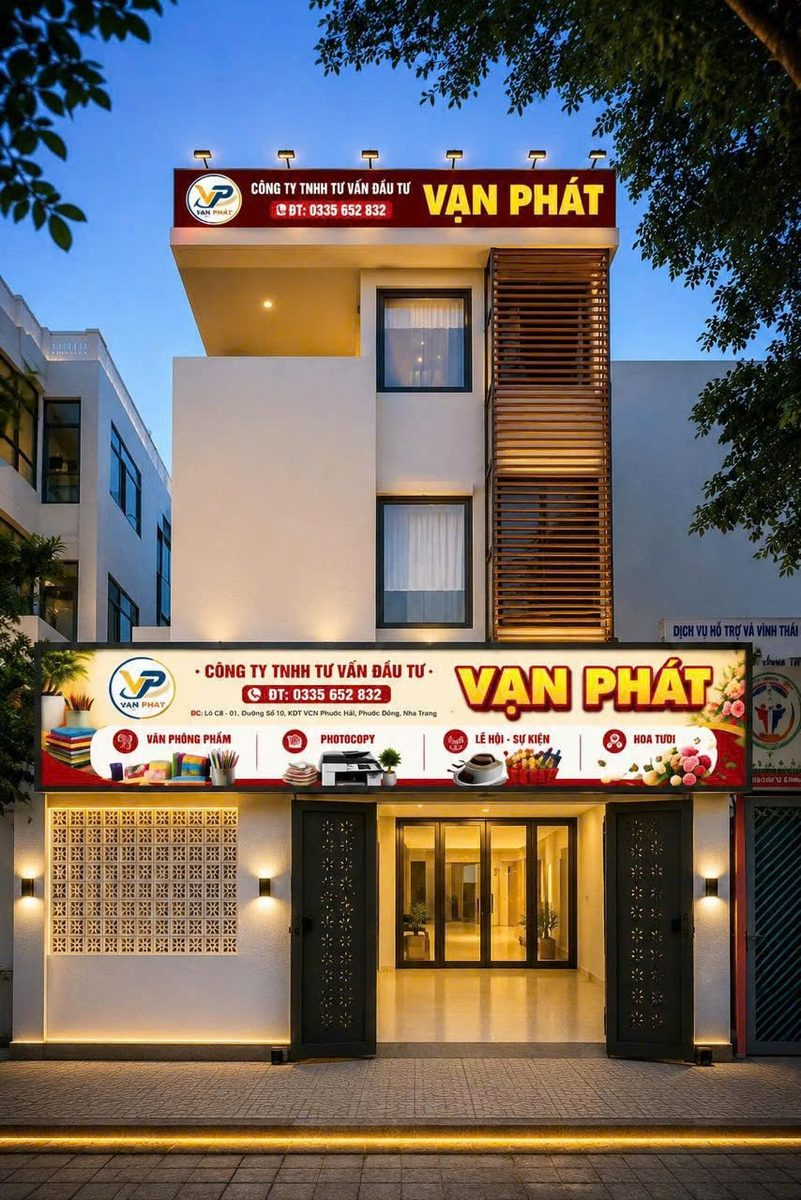
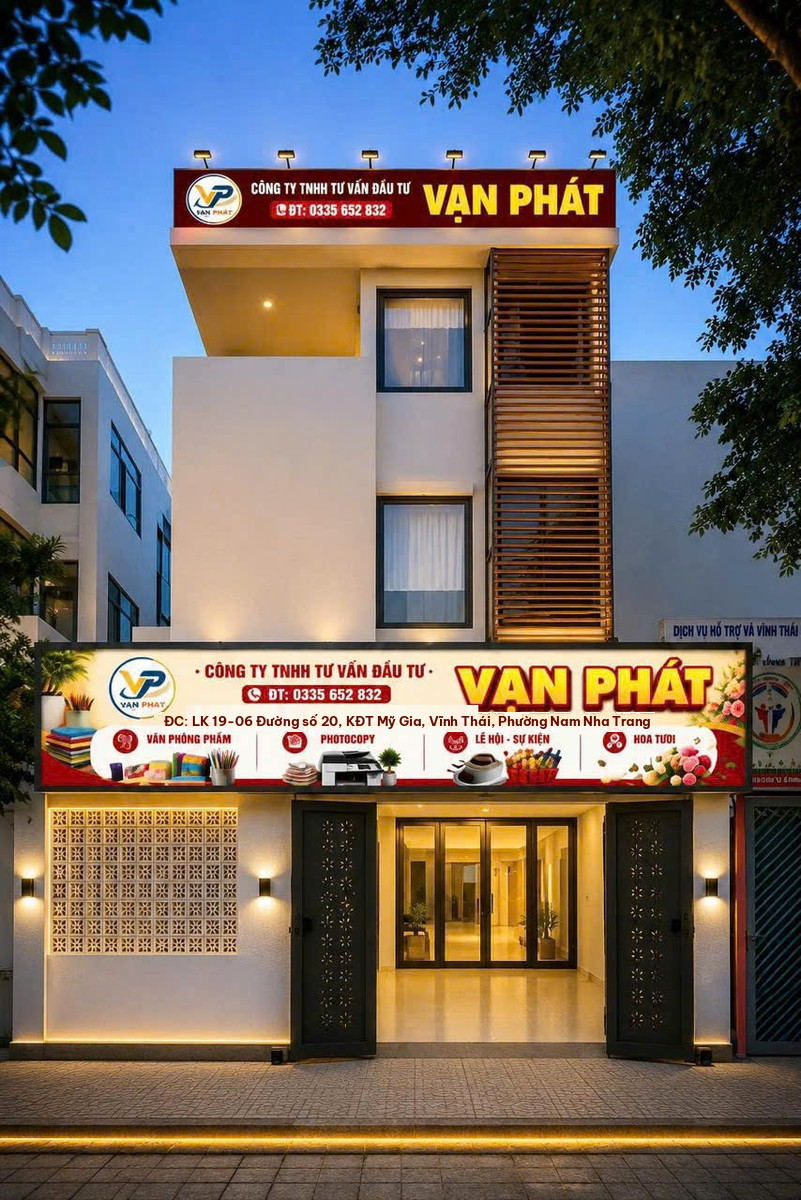
Sửa dòng địa chỉ trên biển mặt tiền sang KĐT Mỹ Gia.
Che dòng Phước Hải trên biển tầng trệt và vẽ lại địa chỉ Mỹ Gia bằng Be Vietnam Pro, giữ tên file ảnh. Thêm ?v=2026101517 cho ảnh hiển thị và sitemap; schema vẫn trỏ URL trần.

Changed region(s): [[0.1873, 0.5858, 0.8115, 0.6167], [0.5618, 0.1542, 0.593, 0.185]]

diff --git a/lien-he.html b/lien-he.html
@@ -14,14 +14,14 @@
   <meta property="og:title" content="Liên hệ văn phòng phẩm Mỹ Gia | Vạn Phát" />
   <meta property="og:description" content="LK 19-06 Đường số 20 KĐT Mỹ Gia, Vĩnh Thái, Phường Nam Nha Trang. Hotline 033 5652 832." />
   <meta property="og:url" content="https://vanphatcompany.vn/lien-he.html" />
-  <meta property="og:image" content="https://vanphatcompany.vn/assets/mat-tien-van-phat-van-phong-pham-my-gia-nha-trang.jpg" />
+  <meta property="og:image" content="https://vanphatcompany.vn/assets/mat-tien-van-phat-van-phong-pham-my-gia-nha-trang.jpg?v=2026101517" />
   <meta property="og:image:alt" content="Mặt tiền cửa hàng Vạn Phát tại KĐT Mỹ Gia, Nam Nha Trang — văn phòng phẩm, nước uống, điện gia dụng và photocopy" />
   <meta property="og:image:width" content="801" />
   <meta property="og:image:height" content="1200" />
   <meta name="twitter:card" content="summary_large_image" />
   <meta name="twitter:title" content="Liên hệ văn phòng phẩm Mỹ Gia | Vạn Phát" />
   <meta name="twitter:description" content="LK 19-06 Đường số 20 KĐT Mỹ Gia, Vĩnh Thái, Phường Nam Nha Trang. Hotline 033 5652 832." />
-  <meta name="twitter:image" content="https://vanphatcompany.vn/assets/mat-tien-van-phat-van-phong-pham-my-gia-nha-trang.jpg" />
+  <meta name="twitter:image" content="https://vanphatcompany.vn/assets/mat-tien-van-phat-van-phong-pham-my-gia-nha-trang.jpg?v=2026101517" />
   <meta name="twitter:image:alt" content="Mặt tiền cửa hàng Vạn Phát tại KĐT Mỹ Gia, Nam Nha Trang — văn phòng phẩm, nước uống, điện gia dụng và photocopy" />
   <link rel="icon" type="image/png" href="assets/favicon.png?v=20260925" />
   <link rel="preconnect" href="https://fonts.googleapis.com" />
@@ -173,8 +173,8 @@
           <div class="contact-place">
             <figure class="storefront-block">
               <picture>
-                <source srcset="assets/mat-tien-van-phat-van-phong-pham-my-gia-nha-trang.webp" type="image/webp" />
-                <img src="assets/mat-tien-van-phat-van-phong-pham-my-gia-nha-trang.jpg" alt="Mặt tiền cửa hàng Vạn Phát tại KĐT Mỹ Gia, Nam Nha Trang — văn phòng phẩm, nước uống, điện gia dụng và photocopy" width="801" height="1200" loading="lazy" decoding="async" />
+                <source srcset="assets/mat-tien-van-phat-van-phong-pham-my-gia-nha-trang.webp?v=2026101517" type="image/webp" />
+                <img src="assets/mat-tien-van-phat-van-phong-pham-my-gia-nha-trang.jpg?v=2026101517" alt="Mặt tiền cửa hàng Vạn Phát tại KĐT Mỹ Gia, Nam Nha Trang — văn phòng phẩm, nước uống, điện gia dụng và photocopy" width="801" height="1200" loading="lazy" decoding="async" />
               </picture>
               <figcaption>Cửa hàng Vạn Phát — LK 19-06 Đường số 20 KĐT Mỹ Gia, Vĩnh Thái, Phường Nam Nha Trang.</figcaption>
             </figure>
@@ -294,8 +294,8 @@
           <h4>Liên hệ</h4>
           <a class="footer-storefront" href="lien-he.html">
             <picture>
-              <source srcset="assets/mat-tien-van-phat-van-phong-pham-my-gia-nha-trang.webp" type="image/webp" />
-              <img src="assets/mat-tien-van-phat-van-phong-pham-my-gia-nha-trang.jpg" alt="Mặt tiền cửa hàng Vạn Phát tại KĐT Mỹ Gia, Nam Nha Trang — văn phòng phẩm, nước uống, điện gia dụng và photocopy" width="801" height="1200" loading="lazy" decoding="async" />
+              <source srcset="assets/mat-tien-van-phat-van-phong-pham-my-gia-nha-trang.webp?v=2026101517" type="image/webp" />
+              <img src="assets/mat-tien-van-phat-van-phong-pham-my-gia-nha-trang.jpg?v=2026101517" alt="Mặt tiền cửa hàng Vạn Phát tại KĐT Mỹ Gia, Nam Nha Trang — văn phòng phẩm, nước uống, điện gia dụng và photocopy" width="801" height="1200" loading="lazy" decoding="async" />
             </picture>
           </a>
           <p class="footer-nap-name">CÔNG TY TNHH TƯ VẤN ĐẦU TƯ THƯƠNG MẠI VẠN PHÁT</p>

diff --git a/index.html b/index.html
@@ -14,14 +14,14 @@
   <meta property="og:title" content="Vạn Phát | Văn phòng phẩm, nước uống &amp; điện gia dụng Nha Trang" />
   <meta property="og:description" content="Văn phòng phẩm, nước uống và điện gia dụng tại Vạn Phát — KĐT Mỹ Gia, Phường Nam Nha Trang. Photocopy khổ A5–A3. Hotline 033 5652 832." />
   <meta property="og:url" content="https://vanphatcompany.vn/" />
-  <meta property="og:image" content="https://vanphatcompany.vn/assets/mat-tien-van-phat-van-phong-pham-my-gia-nha-trang.jpg" />
+  <meta property="og:image" content="https://vanphatcompany.vn/assets/mat-tien-van-phat-van-phong-pham-my-gia-nha-trang.jpg?v=2026101517" />
   <meta property="og:image:alt" content="Mặt tiền cửa hàng Vạn Phát tại KĐT Mỹ Gia, Nam Nha Trang — văn phòng phẩm, nước uống, điện gia dụng và photocopy" />
   <meta property="og:image:width" content="801" />
   <meta property="og:image:height" content="1200" />
   <meta name="twitter:card" content="summary_large_image" />
   <meta name="twitter:title" content="Vạn Phát | Văn phòng phẩm &amp; Photocopy Nha Trang" />
   <meta name="twitter:description" content="Văn phòng phẩm Nha Trang và photocopy Mỹ Gia tại Vạn Phát — cửa hàng KĐT Mỹ Gia, Phường Nam Nha Trang." />
-  <meta name="twitter:image" content="https://vanphatcompany.vn/assets/mat-tien-van-phat-van-phong-pham-my-gia-nha-trang.jpg" />
+  <meta name="twitter:image" content="https://vanphatcompany.vn/assets/mat-tien-van-phat-van-phong-pham-my-gia-nha-trang.jpg?v=2026101517" />
   <meta name="twitter:image:alt" content="Mặt tiền cửa hàng Vạn Phát tại KĐT Mỹ Gia, Nam Nha Trang — văn phòng phẩm, nước uống, điện gia dụng và photocopy" />
   <link rel="icon" type="image/png" href="assets/favicon.png?v=20260925" />
   <link rel="preconnect" href="https://fonts.googleapis.com" />
@@ -300,8 +300,8 @@
           <h4>Liên hệ</h4>
           <a class="footer-storefront" href="lien-he.html">
             <picture>
-              <source srcset="assets/mat-tien-van-phat-van-phong-pham-my-gia-nha-trang.webp" type="image/webp" />
-              <img src="assets/mat-tien-van-phat-van-phong-pham-my-gia-nha-trang.jpg" alt="Mặt tiền cửa hàng Vạn Phát tại KĐT Mỹ Gia, Nam Nha Trang — văn phòng phẩm, nước uống, điện gia dụng và photocopy" width="801" height="1200" loading="lazy" decoding="async" />
+              <source srcset="assets/mat-tien-van-phat-van-phong-pham-my-gia-nha-trang.webp?v=2026101517" type="image/webp" />
+              <img src="assets/mat-tien-van-phat-van-phong-pham-my-gia-nha-trang.jpg?v=2026101517" alt="Mặt tiền cửa hàng Vạn Phát tại KĐT Mỹ Gia, Nam Nha Trang — văn phòng phẩm, nước uống, điện gia dụng và photocopy" width="801" height="1200" loading="lazy" decoding="async" />
             </picture>
           </a>
           <p class="footer-nap-name">CÔNG TY TNHH TƯ VẤN ĐẦU TƯ THƯƠNG MẠI VẠN PHÁT</p>

diff --git a/scripts/generate_catalog_pages.py b/scripts/generate_catalog_pages.py
@@ -50,6 +50,8 @@ STOREFRONT_ALT = (
     " — văn phòng phẩm, nước uống, điện gia dụng và photocopy"
 )
 STOREFRONT_IMAGE = f"{SITE}/assets/{STOREFRONT_STEM}.jpg"
+# Same file as schema image. Query only busts sitemap/HTML caches after the sign text edit.
+STOREFRONT_CACHE = "2026101517"
 # Pin measured for the published Mỹ Gia address. Do not swap in another street line.
 GEO_LAT = "12.237790072249387"
 GEO_LNG = "109.16637827055754"
@@ -1200,8 +1202,8 @@ def build_product_page(product: dict, groups: list[str], files: dict, related: l
 
 
 SITEMAP_IMAGES = {
-    "/": [{"loc": STOREFRONT_IMAGE, "title": "Mặt tiền cửa hàng Vạn Phát tại KĐT Mỹ Gia, Nam Nha Trang"}],
-    "/lien-he.html": [{"loc": STOREFRONT_IMAGE, "title": "Mặt tiền cửa hàng Vạn Phát tại KĐT Mỹ Gia, Nam Nha Trang"}],
+    "/": [{"loc": f"{STOREFRONT_IMAGE}?v={STOREFRONT_CACHE}", "title": "Mặt tiền cửa hàng Vạn Phát tại KĐT Mỹ Gia, Nam Nha Trang"}],
+    "/lien-he.html": [{"loc": f"{STOREFRONT_IMAGE}?v={STOREFRONT_CACHE}", "title": "Mặt tiền cửa hàng Vạn Phát tại KĐT Mỹ Gia, Nam Nha Trang"}],
 }
 
 
@@ -1729,7 +1731,7 @@ def assert_generated_seo(products: list[dict]) -> None:
         raise SystemExit("empty nhóm Bánh is still in the sitemap")
     if "/san-pham/nhom-giay.html" not in sitemap or "<loc>https://vanphatcompany.vn/</loc>" not in sitemap:
         raise SystemExit("sitemap dropped a page that should stay")
-    if f"<image:loc>{STOREFRONT_IMAGE}</image:loc>" not in sitemap:
+    if f"<image:loc>{STOREFRONT_IMAGE}?v={STOREFRONT_CACHE}</image:loc>" not in sitemap:
         raise SystemExit("sitemap is missing the storefront image")
     if GEO_LAT not in (ROOT / "san-pham" / by_ma["VP204"]["_file"]).read_text(encoding="utf-8"):
         raise SystemExit("LocalBusiness is missing the Mỹ Gia pin")
